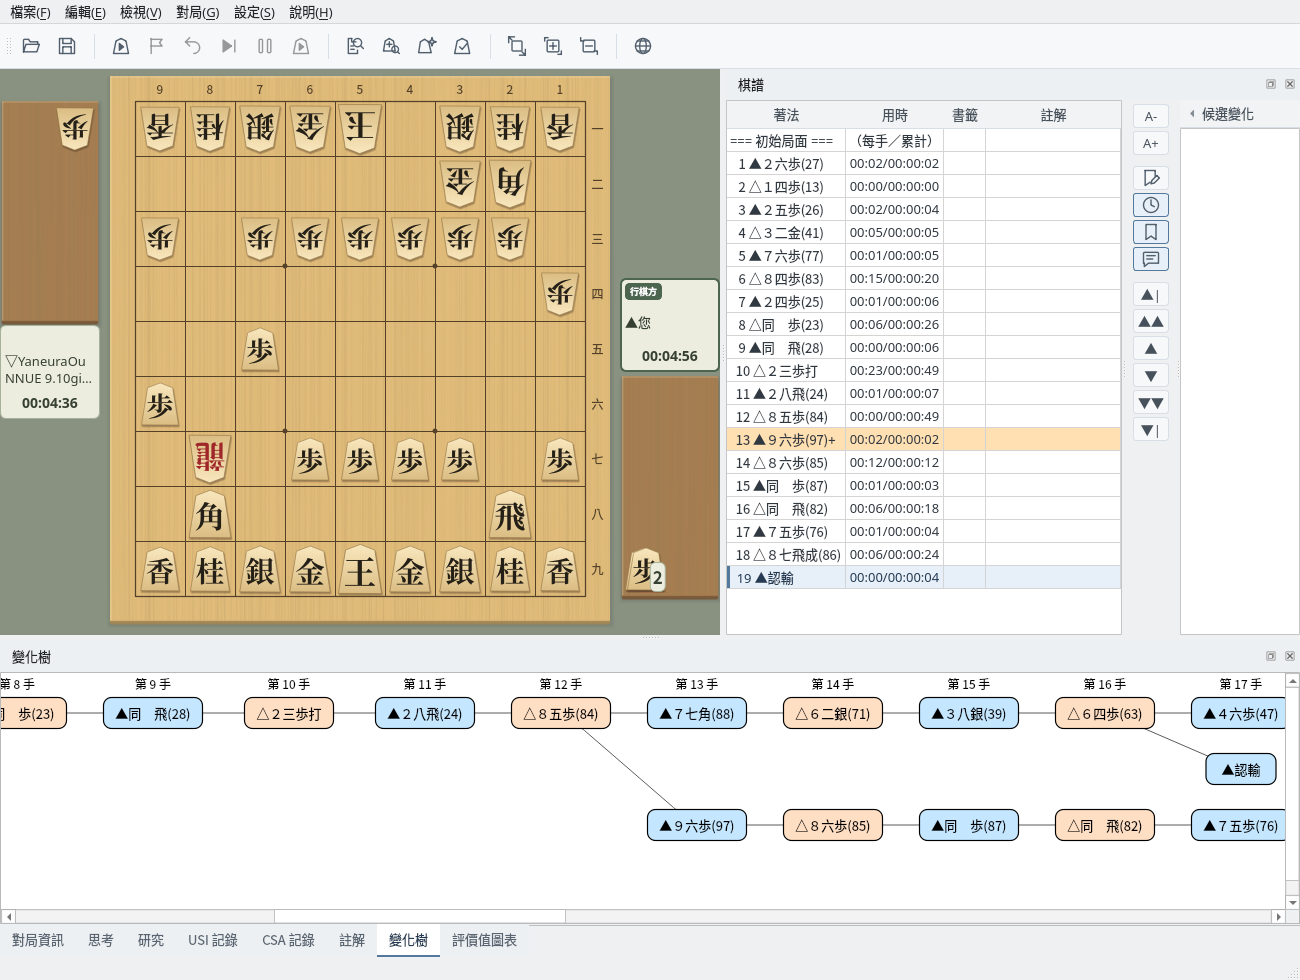
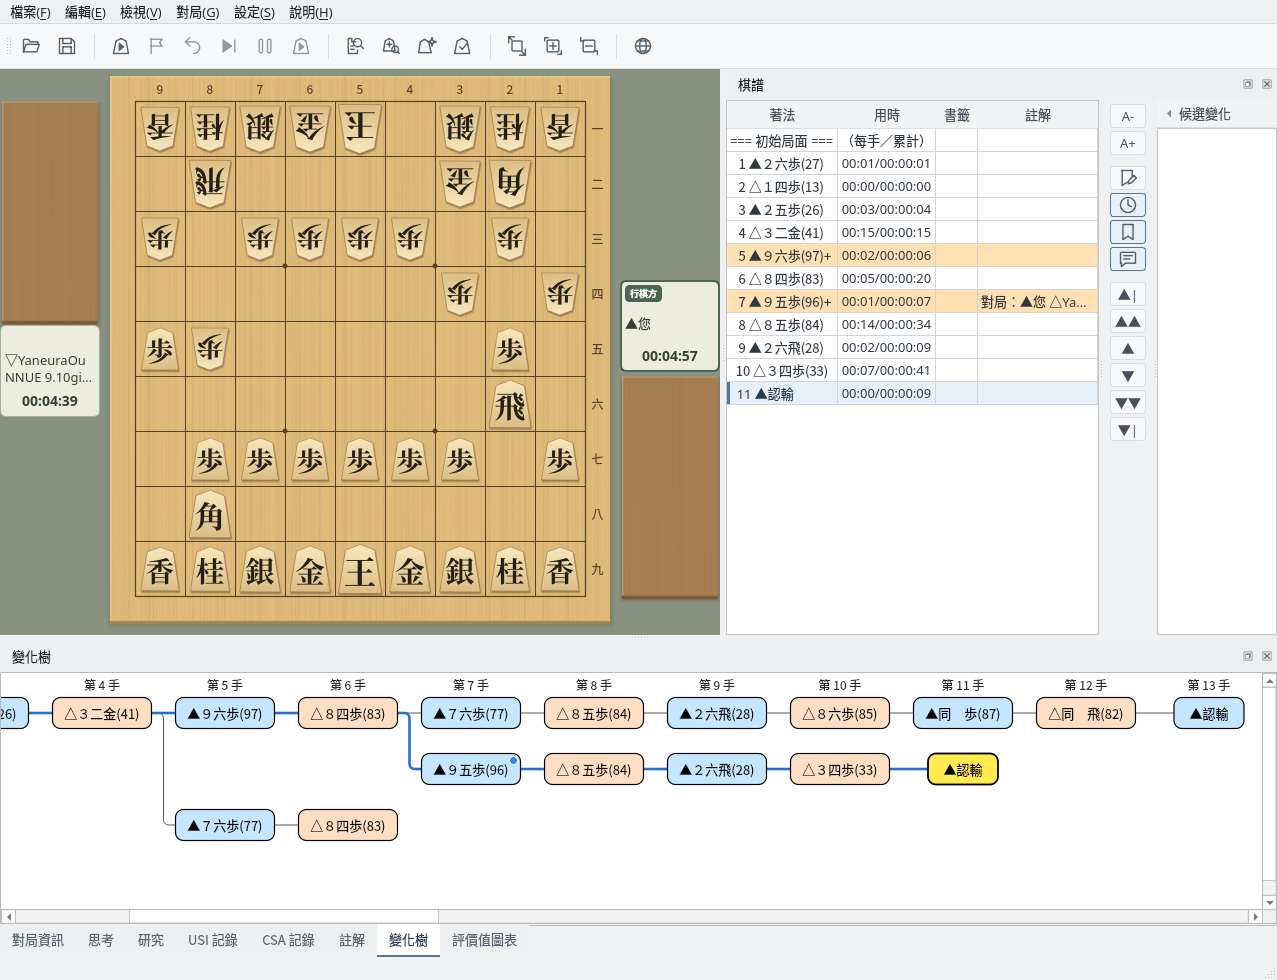
対局ガイドの分岐ツリーの画像を、現在の分岐ツリーの表示で4言語とも撮り直す
人間対やねうら王で、「待った」で取り消した手順（5手目）と、6手目から「現在の局面」で指し継いだ対局の手順（7手目）が分岐として残る様子を撮り、キャプションもその内容にする。

diff --git a/docs/guide/game-play.html b/docs/guide/game-play.html
@@ -253,7 +253,7 @@
                 <p class="guide-step-text">対局していないときは、盤上で駒を動かして変化を加えることもできます（<a href="branch-tree.html#board-move">分岐ツリー</a>を参照）。</p>
                 <div class="screenshot-item">
                     <img src="../images/game-play/game-07-branch-tree.png" alt="分岐ツリー表示">
-                    <p class="screenshot-caption">分岐ツリー：本譜だけでなく、別の変化の指し手を表示</p>
+                    <p class="screenshot-caption">分岐ツリー：5手目に「待った」で取り消した手順、7手目に6手目から指し継いだ対局の手順が分岐として残る</p>
                 </div>
             </div>
 

diff --git a/docs/zh-cn/guide/game-play.html b/docs/zh-cn/guide/game-play.html
@@ -254,7 +254,7 @@
                 <p class="guide-step-text">不在对局中时，也可以在棋盘上移动棋子来添加变化（请参阅<a href="branch-tree.html#board-move">变化树</a>）。</p>
                 <div class="screenshot-item">
                     <img src="../../images/zh-cn/game-play/game-07-branch-tree.png" alt="变化树">
-                    <p class="screenshot-caption">变化树：显示本谱以及其他变化的着法</p>
+                    <p class="screenshot-caption">变化树：第 5 手是用“悔棋”撤回的手顺，第 7 手是从第 6 手接着下的对局手顺，均作为变化保留</p>
                 </div>
             </div>
 

diff --git a/docs/zh-tw/guide/game-play.html b/docs/zh-tw/guide/game-play.html
@@ -254,7 +254,7 @@
                 <p class="guide-step-text">不在對局中時，也可以在棋盤上移動棋子來新增變化（請參閱<a href="branch-tree.html#board-move">變化樹</a>）。</p>
                 <div class="screenshot-item">
                     <img src="../../images/zh-tw/game-play/game-07-branch-tree.png" alt="變化樹">
-                    <p class="screenshot-caption">變化樹：顯示本譜以及其他變化的著法</p>
+                    <p class="screenshot-caption">變化樹：第 5 手是以「悔棋」撤回的手順，第 7 手是從第 6 手接著下的對局手順，皆作為變化保留</p>
                 </div>
             </div>
 

diff --git a/docs/en/guide/game-play.html b/docs/en/guide/game-play.html
@@ -234,7 +234,7 @@
 <p class="guide-step-text">When no game is in progress, you can also add a variation by moving a piece on the board (see <a href="branch-tree.html#board-move">Branch Tree</a>).</p>
 <div class="screenshot-item">
 <img alt="Branch Tree display" src="../../images/en/game-play/game-07-branch-tree.png"/>
-<p class="screenshot-caption">Branch Tree: view the main line and alternative continuations</p>
+<p class="screenshot-caption">Branch Tree: the moves taken back with Take Back branch off at move 5, and the game continued from move 6 branches off at move 7</p>
 </div>
 </div>
 <div class="guide-step">
